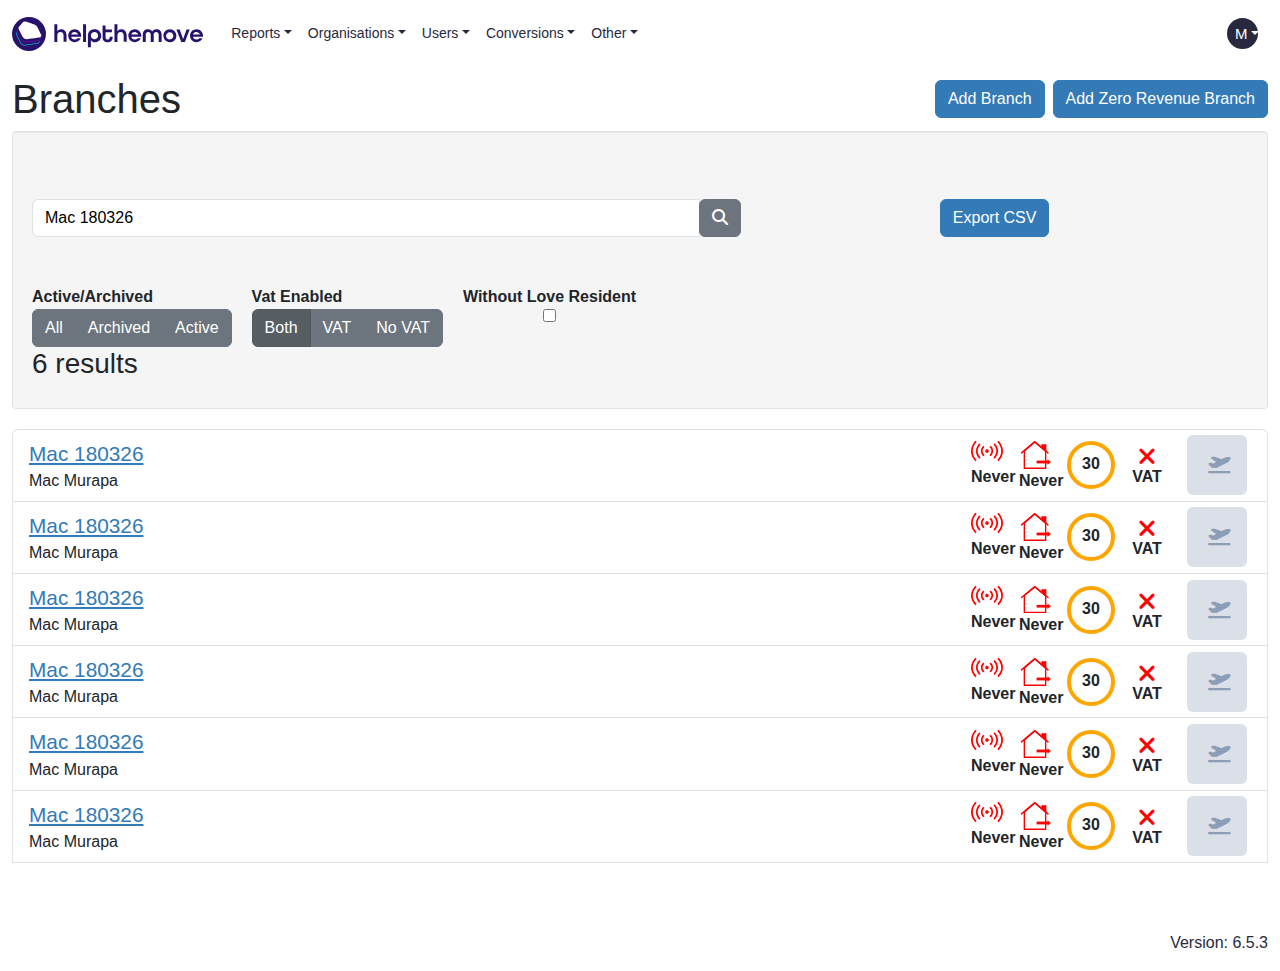
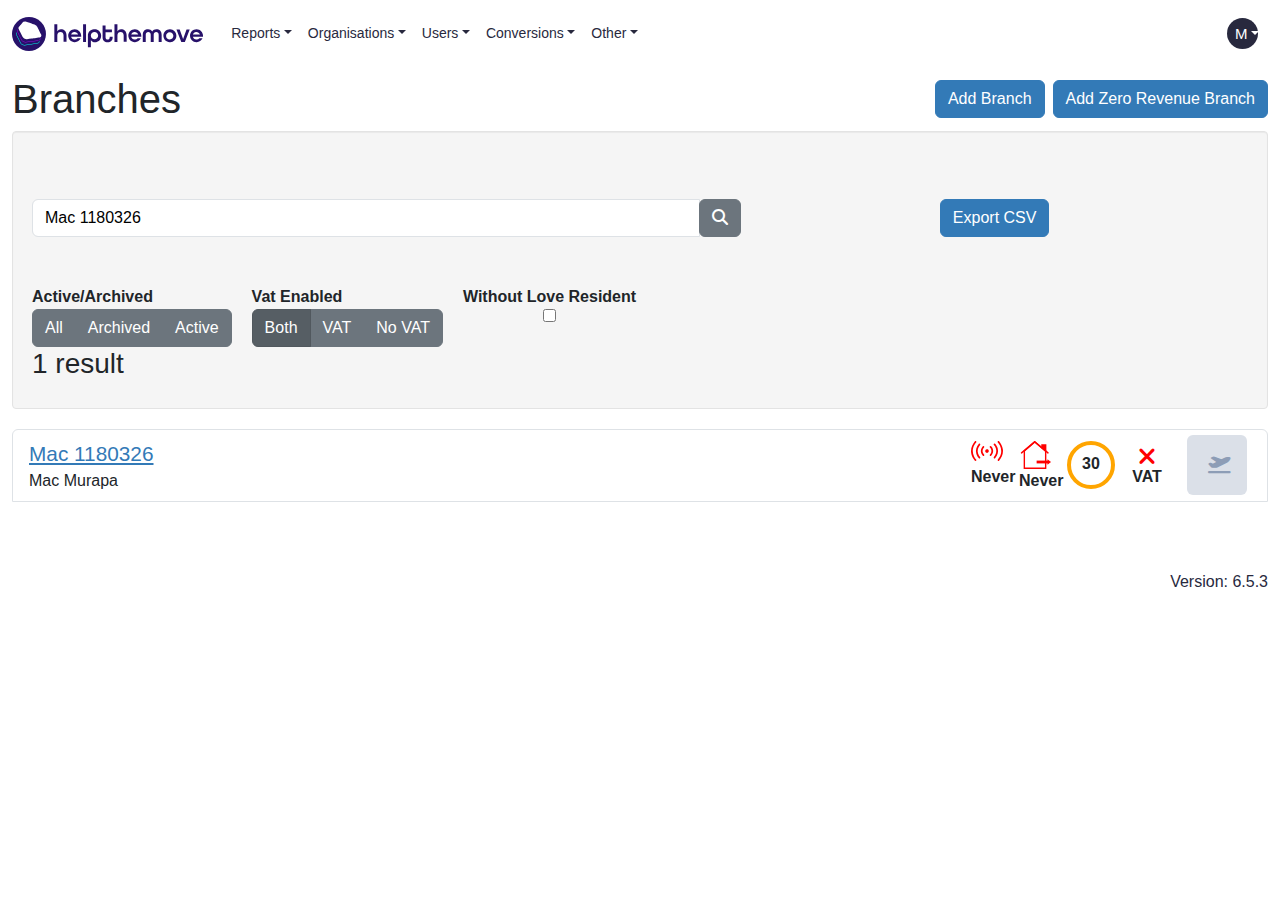
Correct branch naming to Mac N[DDMMYY] sequential convention
Branch name is now Mac 1180326, Mac 2180326 etc. — N is auto-determined
at runtime by counting existing branches for today's date suffix.
Each test run always creates a fresh uniquely-named branch.

Both htm_clone_007.js and inspect script updated. Updated screenshots
from passing run: branch Mac 1180326 (ID: 2475), landlord Mr Emma Hill.

https://claude.ai/code/session_01GW2WmEioQTL2DMN7kmy59S

diff --git a/HTM Clone Testing/HTM Clone Testing/Test Runs/180326 Test Runs/Test Run 007/htm_clone_007.js b/HTM Clone Testing/HTM Clone Testing/Test Runs/180326 Test Runs/Test Run 007/htm_clone_007.js
@@ -4,12 +4,16 @@
  *
  * Steps:
  *   [1/5] Verify session via auth.json (refresh headed if expired)
- *   [2/5] Find or create branch "Mac DDMMYY" (today's date — one per day)
- *   [3/5] Find the branch in /branches and navigate to it
+ *   [2/5] Determine next branch name (Mac N[DDMMYY]) and create it
+ *   [3/5] Find the created branch in /branches and navigate to it
  *   [4/5] Navigate to Add Landlord form (/branches/:id/landlords/new)
  *   [5/5] Fill and submit the landlord form — verify success
  *
- * Branch naming convention: Mac DDMMYY (e.g. Mac 180326 = 18th Mar 2026)
+ * Branch naming convention: Mac N[DDMMYY]
+ *   N = sequential count of branches created today (1, 2, 3 ...)
+ *   e.g. 1st branch on 18 Mar 2026 → Mac 1180326
+ *        2nd branch on 18 Mar 2026 → Mac 2180326
+ *
  * Landlord name: randomly generated on each run
  *
  * Default branch values:
@@ -24,13 +28,29 @@
 const { chromium } = require('/opt/node22/lib/node_modules/playwright');
 const path = require('path');
 
-// ── Branch name: Mac + today's date in DDMMYY ─────────────────────────────────
-function todaysBranchName() {
+// ── Date suffix helper: DDMMYY ─────────────────────────────────────────────────
+function dateSuffix() {
   const now = new Date();
   const dd  = String(now.getDate()).padStart(2, '0');
   const mm  = String(now.getMonth() + 1).padStart(2, '0');
   const yy  = String(now.getFullYear()).slice(-2);
-  return `Mac ${dd}${mm}${yy}`;
+  return `${dd}${mm}${yy}`;
+}
+
+// ── Next sequential branch name: counts Mac N[DDMMYY] branches for today ───────
+// Searches /branches for today's suffix, counts matches, returns Mac [N+1]DDMMYY
+async function nextBranchName(page, cloneUrl) {
+  const suffix = dateSuffix();
+  const pattern = new RegExp('^Mac \\d+' + suffix + '$');
+  await page.goto(`${cloneUrl}/branches?q=${encodeURIComponent(suffix)}`, {
+    waitUntil: 'domcontentloaded', timeout: 30000
+  });
+  await page.waitForTimeout(600);
+  const count = await page.evaluate((pat) => {
+    const links = Array.from(document.querySelectorAll('a[href*="/branches/"]'));
+    return links.filter(a => new RegExp(pat).test(a.innerText.trim())).length;
+  }, pattern.source);
+  return `Mac ${count + 1}${suffix}`;
 }
 
 // ── Random landlord name ───────────────────────────────────────────────────────
@@ -54,10 +74,9 @@ const landlordTitle = pick(TITLES);
 const landlordFirst = pick(FIRST_NAMES);
 const landlordLast  = pick(LAST_NAMES);
 
-const CLONE_URL   = 'https://admin-clone.helpthemove.co.uk';
-const BRANCH_NAME = todaysBranchName();
-const AUTH_PATH   = '/home/user/QA-Testing/auth.json';
-const SS_DIR      = path.dirname(__filename);
+const CLONE_URL = 'https://admin-clone.helpthemove.co.uk';
+const AUTH_PATH = '/home/user/QA-Testing/auth.json';
+const SS_DIR    = path.dirname(__filename);
 
 // Landlord test data — randomly generated each run
 const LANDLORD = {
@@ -154,7 +173,6 @@ async function refreshAuth() {
 (async () => {
   console.log('═══════════════════════════════════════════════════════');
   console.log(' HTM Clone - Test Run 007: Landlord Creation');
-  console.log(' Branch  : ' + BRANCH_NAME);
   console.log(' Landlord: ' + LANDLORD.title + ' ' + LANDLORD.first_name + ' ' + LANDLORD.last_name);
   console.log('═══════════════════════════════════════════════════════');
 
@@ -179,24 +197,60 @@ async function refreshAuth() {
   const context  = await browser.newContext({ ignoreHTTPSErrors: true, viewport: { width: 1280, height: 900 }, storageState: AUTH_PATH });
   const page     = await context.newPage();
 
-  // Final sanity check
   const ok = await isSessionValid(page);
   if (!ok) { console.log('ERROR: Session still invalid. Exiting.'); await browser.close(); process.exitCode = 1; return; }
   console.log('      Headless session confirmed.');
 
-  // ── Step 2: Find or Create Branch ─────────────────────────────────────────
-  // IMPORTANT: Check if branch already exists before creating to avoid duplicates.
-  // Note: POST /branches redirects to /admins/:user_id (the logged-in admin page),
-  //       not the new branch. This is a known app pattern — always search for the
-  //       branch by name after creation (or instead of creation if already present).
-  console.log('\n[2/5] Checking if branch "' + BRANCH_NAME + '" already exists...');
+  // ── Step 2: Determine next branch name and create it ──────────────────────
+  // Convention: Mac N[DDMMYY] — N auto-increments by counting today's branches.
+  // Each test run always creates a fresh uniquely-named branch.
+  // Note: POST /branches redirects to /admins/:user_id (known app pattern) —
+  //       the real branch URL is found by searching /branches by name afterwards.
+  console.log('\n[2/5] Determining next branch name for today...');
+  const BRANCH_NAME = await nextBranchName(page, CLONE_URL);
+  console.log('      Branch name: ' + BRANCH_NAME);
+
+  await page.goto(`${CLONE_URL}/branches/new`, { waitUntil: 'domcontentloaded', timeout: 30000 });
+  await page.waitForTimeout(1000);
+  await page.screenshot({ path: `${SS_DIR}/007_branch_form.png`, fullPage: true });
+  console.log('      Screenshot: 007_branch_form.png');
+
+  await page.locator('input[name="branch[name]"]').fill(BRANCH_NAME);
+  await page.locator('select[name="branch[business_type]"]').selectOption({ label: 'Letting Agent' });
+  await page.locator('input[name="branch[phone_number]"]').fill('07561834920');
+  await page.locator('input[name="branch[address_attributes][address_1]"]').fill('123 Test Street');
+  await page.locator('input[name="branch[address_attributes][town]"]').fill('Manchester');
+  await page.locator('input[name="branch[address_attributes][post_code]"]').fill('M13 9GS');
+  await page.locator('input[name="branch[address_attributes][county]"]').fill('Lancashire');
+
+  await page.screenshot({ path: `${SS_DIR}/007_branch_form_filled.png`, fullPage: true });
+  console.log('      Screenshot: 007_branch_form_filled.png');
+
+  await page.locator('input[type="submit"]').click();
+  await page.waitForLoadState('domcontentloaded', { timeout: 15000 });
+  await page.waitForTimeout(1500);
+
+  const postCreateUrl = page.url();
+  console.log('      Post-creation redirect: ' + postCreateUrl + ' (expected: /admins/:id)');
+
+  if (postCreateUrl.includes('/branches/new')) {
+    await page.screenshot({ path: `${SS_DIR}/007_branch_error.png`, fullPage: true });
+    console.log('ERROR: Branch creation failed (still on /new). Check 007_branch_error.png');
+    await browser.close(); process.exitCode = 1; return;
+  }
+  console.log('      Branch "' + BRANCH_NAME + '" submitted successfully.');
+
+  // ── Step 3: Locate the branch and navigate to its page ────────────────────
+  // Post-creation redirect goes to /admins/:user_id — search by name to get real URL.
+  console.log('\n[3/5] Locating branch "' + BRANCH_NAME + '"...');
 
   await page.goto(`${CLONE_URL}/branches?q=${encodeURIComponent(BRANCH_NAME)}`, {
     waitUntil: 'domcontentloaded', timeout: 30000
   });
   await page.waitForTimeout(800);
+  await page.screenshot({ path: `${SS_DIR}/007_branch_search.png`, fullPage: true });
 
-  let existingBranchUrl = await page.evaluate((name) => {
+  let actualBranchUrl = await page.evaluate((name) => {
     const rows = Array.from(document.querySelectorAll('table tbody tr, tr'));
     for (const row of rows) {
       if (row.innerText.includes(name)) {
@@ -208,72 +262,6 @@ async function refreshAuth() {
     const match = links.find(a => a.innerText.trim() === name);
     return match ? match.href : null;
   }, BRANCH_NAME);
-
-  if (existingBranchUrl) {
-    const existingId = (existingBranchUrl.match(/\/branches\/(\d+)/) || [])[1];
-    console.log('      Branch already exists (ID: ' + existingId + ') — skipping creation.');
-    console.log('      URL: ' + existingBranchUrl);
-  } else {
-    console.log('      Not found — creating branch "' + BRANCH_NAME + '"...');
-    await page.goto(`${CLONE_URL}/branches/new`, { waitUntil: 'domcontentloaded', timeout: 30000 });
-    await page.waitForTimeout(1000);
-    await page.screenshot({ path: `${SS_DIR}/007_branch_form.png`, fullPage: true });
-    console.log('      Screenshot: 007_branch_form.png');
-
-    await page.locator('input[name="branch[name]"]').fill(BRANCH_NAME);
-    await page.locator('select[name="branch[business_type]"]').selectOption({ label: 'Letting Agent' });
-    await page.locator('input[name="branch[phone_number]"]').fill('07561834920');
-    await page.locator('input[name="branch[address_attributes][address_1]"]').fill('123 Test Street');
-    await page.locator('input[name="branch[address_attributes][town]"]').fill('Manchester');
-    await page.locator('input[name="branch[address_attributes][post_code]"]').fill('M13 9GS');
-    await page.locator('input[name="branch[address_attributes][county]"]').fill('Lancashire');
-
-    await page.screenshot({ path: `${SS_DIR}/007_branch_form_filled.png`, fullPage: true });
-    console.log('      Screenshot: 007_branch_form_filled.png');
-
-    await page.locator('input[type="submit"]').click();
-    await page.waitForLoadState('domcontentloaded', { timeout: 15000 });
-    await page.waitForTimeout(1500);
-
-    // App redirects to /admins/:user_id after branch creation — not the branch page.
-    // Re-search for the branch by name to get the real branch ID.
-    const postCreateUrl = page.url();
-    console.log('      Post-creation redirect: ' + postCreateUrl + ' (expected: /admins/:id)');
-
-    if (postCreateUrl.includes('/branches/new')) {
-      await page.screenshot({ path: `${SS_DIR}/007_branch_error.png`, fullPage: true });
-      console.log('ERROR: Branch creation failed (still on /new). Check 007_branch_error.png');
-      await browser.close(); process.exitCode = 1; return;
-    }
-    console.log('      Branch submitted. Re-searching by name...');
-  }
-
-  // ── Step 3: Locate the branch and navigate to its page ────────────────────
-  console.log('\n[3/5] Locating branch "' + BRANCH_NAME + '"...');
-
-  let actualBranchUrl = existingBranchUrl || null;
-
-  if (!actualBranchUrl) {
-    // Re-search after creation (post-creation redirect doesn't give us the branch URL)
-    await page.goto(`${CLONE_URL}/branches?q=${encodeURIComponent(BRANCH_NAME)}`, {
-      waitUntil: 'domcontentloaded', timeout: 30000
-    });
-    await page.waitForTimeout(800);
-    await page.screenshot({ path: `${SS_DIR}/007_branch_search.png`, fullPage: true });
-
-    actualBranchUrl = await page.evaluate((name) => {
-      const rows = Array.from(document.querySelectorAll('table tbody tr, tr'));
-      for (const row of rows) {
-        if (row.innerText.includes(name)) {
-          const a = row.querySelector('a[href*="/branches/"]');
-          if (a) return a.href;
-        }
-      }
-      const links = Array.from(document.querySelectorAll('a[href*="/branches/"]'));
-      const match = links.find(a => a.innerText.trim() === name);
-      return match ? match.href : null;
-    }, BRANCH_NAME);
-  }
 
   if (!actualBranchUrl) {
     await page.screenshot({ path: `${SS_DIR}/007_branch_not_found.png`, fullPage: true });

diff --git a/HTM Clone Testing/HTM Clone Testing/Test Runs/180326 Test Runs/Test Run 007/htm_clone_007_inspect.js b/HTM Clone Testing/HTM Clone Testing/Test Runs/180326 Test Runs/Test Run 007/htm_clone_007_inspect.js
@@ -22,19 +22,32 @@
 const { chromium } = require('/opt/node22/lib/node_modules/playwright');
 const path = require('path');
 
-// ── Branch name: Mac + today's date in DDMMYY ─────────────────────────────────
-function todaysBranchName() {
+// ── Date suffix helper and sequential branch name ─────────────────────────────
+function dateSuffix() {
   const now = new Date();
   const dd  = String(now.getDate()).padStart(2, '0');
   const mm  = String(now.getMonth() + 1).padStart(2, '0');
   const yy  = String(now.getFullYear()).slice(-2);
-  return `Mac ${dd}${mm}${yy}`;
+  return `${dd}${mm}${yy}`;
 }
 
-const CLONE_URL   = 'https://admin-clone.helpthemove.co.uk';
-const BRANCH_NAME = todaysBranchName();
-const AUTH_PATH   = '/home/user/QA-Testing/auth.json';
-const SS_DIR      = path.dirname(__filename);
+async function nextBranchName(page, cloneUrl) {
+  const suffix  = dateSuffix();
+  const pattern = new RegExp('^Mac \\d+' + suffix + '$');
+  await page.goto(`${cloneUrl}/branches?q=${encodeURIComponent(suffix)}`, {
+    waitUntil: 'domcontentloaded', timeout: 30000
+  });
+  await page.waitForTimeout(600);
+  const count = await page.evaluate((pat) => {
+    const links = Array.from(document.querySelectorAll('a[href*="/branches/"]'));
+    return links.filter(a => new RegExp(pat).test(a.innerText.trim())).length;
+  }, pattern.source);
+  return `Mac ${count + 1}${suffix}`;
+}
+
+const CLONE_URL = 'https://admin-clone.helpthemove.co.uk';
+const AUTH_PATH = '/home/user/QA-Testing/auth.json';
+const SS_DIR    = path.dirname(__filename);
 
 const rawProxy = process.env.HTTPS_PROXY || process.env.HTTP_PROXY || '';
 let proxyConfig;
@@ -166,7 +179,6 @@ async function refreshAuth() {
 (async () => {
   console.log('═══════════════════════════════════════════════════════');
   console.log(' HTM Clone - Test Run 007: Inspection Run');
-  console.log(' Branch: ' + BRANCH_NAME);
   console.log('═══════════════════════════════════════════════════════');
 
   // ── Step 1: Check existing session ────────────────────────────────────────
@@ -222,55 +234,32 @@ async function refreshAuth() {
   }
   console.log('      Headless session confirmed.');
 
-  // ── Step 3: Find or create branch (check-before-create) ───────────────────
-  // Convention: branch name = Mac DDMMYY — one per day, reused across runs.
-  // Always search first to avoid creating duplicates.
-  console.log('\n[3/5] Checking if branch "' + BRANCH_NAME + '" already exists...');
+  // ── Step 3: Determine next branch name and create it ─────────────────────
+  // Convention: Mac N[DDMMYY] — N increments per day.
+  // App redirects to /admins/:user_id after creation — not the branch page.
+  console.log('\n[3/5] Determining next branch name for today...');
+  const BRANCH_NAME = await nextBranchName(page, CLONE_URL);
+  console.log('      Branch name: ' + BRANCH_NAME);
 
-  await page.goto(`${CLONE_URL}/branches?q=${encodeURIComponent(BRANCH_NAME)}`, {
-    waitUntil: 'domcontentloaded', timeout: 30000
-  });
-  await page.waitForTimeout(800);
+  await page.goto(`${CLONE_URL}/branches/new`, { waitUntil: 'domcontentloaded', timeout: 30000 });
+  await page.waitForTimeout(1000);
+  await page.screenshot({ path: `${SS_DIR}/007_inspect_branch_form.png`, fullPage: true });
+  console.log('      Screenshot: 007_inspect_branch_form.png');
 
-  let existingInspectUrl = await page.evaluate((name) => {
-    const rows = Array.from(document.querySelectorAll('table tbody tr, tr'));
-    for (const row of rows) {
-      if (row.innerText.includes(name)) {
-        const a = row.querySelector('a[href*="/branches/"]');
-        if (a) return a.href;
-      }
-    }
-    const links = Array.from(document.querySelectorAll('a[href*="/branches/"]'));
-    const match = links.find(a => a.innerText.trim() === name);
-    return match ? match.href : null;
-  }, BRANCH_NAME);
+  await page.locator('input[name="branch[name]"]').fill(BRANCH_NAME);
+  await page.locator('select[name="branch[business_type]"]').selectOption({ label: 'Letting Agent' });
+  await page.locator('input[name="branch[phone_number]"]').fill('07561834920');
+  await page.locator('input[name="branch[address_attributes][address_1]"]').fill('123 Test Street');
+  await page.locator('input[name="branch[address_attributes][town]"]').fill('Manchester');
+  await page.locator('input[name="branch[address_attributes][post_code]"]').fill('M13 9GS');
+  await page.locator('input[name="branch[address_attributes][county]"]').fill('Lancashire');
 
-  if (existingInspectUrl) {
-    console.log('      Branch already exists — skipping creation.');
-    console.log('      URL: ' + existingInspectUrl);
-  } else {
-    console.log('      Not found — creating...');
-    await page.goto(`${CLONE_URL}/branches/new`, { waitUntil: 'domcontentloaded', timeout: 30000 });
-    await page.waitForTimeout(1000);
-    await page.screenshot({ path: `${SS_DIR}/007_inspect_branch_form.png`, fullPage: true });
-    console.log('      Screenshot: 007_inspect_branch_form.png');
+  await page.locator('input[type="submit"]').click();
+  await page.waitForLoadState('domcontentloaded', { timeout: 15000 });
+  await page.waitForTimeout(1500);
+  console.log('      Branch submitted. Redirect: ' + page.url());
 
-    await page.locator('input[name="branch[name]"]').fill(BRANCH_NAME);
-    await page.locator('select[name="branch[business_type]"]').selectOption({ label: 'Letting Agent' });
-    await page.locator('input[name="branch[phone_number]"]').fill('07561834920');
-    await page.locator('input[name="branch[address_attributes][address_1]"]').fill('123 Test Street');
-    await page.locator('input[name="branch[address_attributes][town]"]').fill('Manchester');
-    await page.locator('input[name="branch[address_attributes][post_code]"]').fill('M13 9GS');
-    await page.locator('input[name="branch[address_attributes][county]"]').fill('Lancashire');
-
-    await page.locator('input[type="submit"]').click();
-    await page.waitForLoadState('domcontentloaded', { timeout: 15000 });
-    await page.waitForTimeout(1500);
-    // App redirects to /admins/:user_id on success — not the branch page
-    console.log('      Branch submitted. Redirect: ' + page.url());
-  }
-
-  const branchUrl = existingInspectUrl || page.url();
+  const branchUrl = page.url();
 
   // ── Step 4: Find the created branch in /branches list ────────────────────────
   // Note: post-creation redirects to /admins/:user_id (the logged-in user page),
